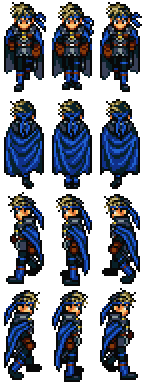
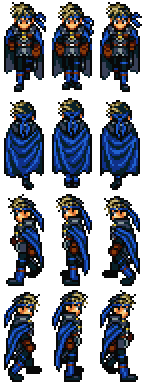
Multiple Mobs, animations

Changed region(s): [[0.0278, 0.25, 0.3056, 1.0], [0.6944, 0.25, 0.9722, 1.0], [0.3611, 0.25, 0.6389, 0.5]]

diff --git a/client/clientjs/Mob.js b/client/clientjs/Mob.js
@@ -3,25 +3,14 @@ class Mob {
 		options = options || {}
 		this.asset = options.asset
 
-		this.tileWidth = options.tileWidth || 48
-		this.tileHeight = options.tileHeight || 96
-
 		this.frames = {}
 
-		this.tile = [1,3]
-		this.offsetX = 128
-		this.offsetY = 128
+		this.tile = [0,0]
+		this.offsetX = 0
+		this.offsetY = 0
 
-		this.animations = {
-			'walknorth': [ [0,1],[1,1],[2,1],[1,1] ],
-			'walksouth': [ [0,0],[1,0],[2,0],[1,0] ],
-			'walkwest':  [ [0,2],[1,2],[2,2],[1,2] ],
-			'walkeast':  [ [0,3],[1,3],[2,3],[1,3] ],
-		}
-
-		this.currentAnimation = { name: 'walkeast', frame: 0, loop: true }
-
-		this.toRedraw = true
+		this.animations = {}
+		this.currentAnimation = options.currentAnimation || null
 	}
 
 	redraw() {
@@ -49,20 +38,19 @@ class Mob {
 	animate() {
 		var nextFrame = ()=>{
 			var anim = this.animations[this.currentAnimation.name]
-			if(anim[this.currentAnimation.frame]) {
-				this.tile = anim[this.currentAnimation.frame]	
-				this.currentAnimation.frame++
-			} else {
+			this.tile = anim[this.currentAnimation.frame]	
+			this.currentAnimation.frame++
+			if(!anim[this.currentAnimation.frame]) {
 				if (this.currentAnimation.loop) {
 					this.currentAnimation.frame = 0
-					this.tile = anim[this.currentAnimation.frame]
 				} else {
 					this.currentAnimation = null
 				}
 			}
+			this.offsetX = this.offsetX+10
 			this.redraw()
 
-			if(this.currentAnimation) setTimeout(nextFrame, 100)
+			if(this.currentAnimation) setTimeout(nextFrame, this.currentAnimation.delay)
 		}
 
 		nextFrame()

diff --git a/client/clientjs/GameEngine.js b/client/clientjs/GameEngine.js
@@ -101,8 +101,8 @@ class GameEngine {
 		return this.audio[name]
 	}
 
-	addMob(name, asset, options) {
-		this.mobDefs[name] = {name: name, asset: asset}
+	addMob(name, asset, klass = Mob, options = {}) {
+		this.mobDefs[name] = {name: name, asset: asset, klass: klass, options: options }
 	}
 
 
@@ -121,6 +121,8 @@ class GameEngine {
 	tick() {
 		var context = this.element.getContext('2d')
 
+		this.redraw()
+
 		if(this.clear) {
 			context.fillStyle = 'black'
 			context.fillRect(0, 0, this.element.width, this.element.height)
@@ -134,10 +136,9 @@ class GameEngine {
 		context.translate(this.x, this.y)
 
 		// Mobs
-		var flik = this.getMob('flik')
-		if(flik) {
-			flik.draw(context)
-		} 
+		for(var i in this.mobs) {
+			this.mobs[i].draw(context)
+		}
 
 		// Draw Background
 		context.restore()
@@ -174,7 +175,8 @@ class GameEngine {
 		console.debug('loading mobs')
 		this.mobs = {}
 		for(var i in this.mobDefs) {
-			this.mobs[i] = new this.Mob({ name: i, asset: this.getAsset(this.mobDefs[i].asset) })
+			var opts = Object.assign({ name: i, asset: this.getAsset(this.mobDefs[i].asset) }, this.mobDefs[i].options || {})
+			this.mobs[i] = new this.mobDefs[i].klass(opts)
 		}
 
 		callback()

diff --git a/client/clientjs/Remake.js b/client/clientjs/Remake.js
@@ -1,4 +1,5 @@
 const GameEngine = require('GameEngine')
+const Character = require('Character')
 
 class Remake extends GameEngine {
 	constructor(options) {
@@ -11,10 +12,12 @@ class Remake extends GameEngine {
 		this.addAsset('kobold.outer','/assets/KoboldVillageOuter.png')
 
 		this.addAsset('flikWalk','/mobs/FlikWalk.png')
+		this.addAsset('victorWalk','/mobs/VictorWalk.png')
 
 		this.addAudio('adventure','/audio/115adventurousjourney.mp3','audio/mpeg')
 
-		this.addMob('flik', 'flikWalk')
+		this.addMob('flik', 'flikWalk', Character, { offsetX: 128, offsetY: 128, currentAnimation: { name: 'walkeast', frame: 0, loop: true, delay: 120 } })
+		this.addMob('victor', 'victorWalk', Character, { offsetX: 512, offsetY: 128, currentAnimation: { name: 'walkwest', frame: 0, loop: true, delay: 120 } })
 	}
 
 	mousedown() {
@@ -29,6 +32,7 @@ class Remake extends GameEngine {
 
 	run() {
 		this.getMob('flik').animate()
+		this.getMob('victor').animate()
 	}
 }
 

diff --git a/client/clientjs/Character.js b/client/clientjs/Character.js
@@ -1,0 +1,24 @@
+const Mob = require('Mob')
+
+class Character extends Mob {
+	constructor(options = {}) {
+		options = options || {}
+		super(options)
+
+		this.tileWidth = options.tileWidth || 48
+		this.tileHeight = options.tileHeight || 96
+
+		this.tile = options.tile || [1,3]
+		this.offsetX = options.offsetX || 128
+		this.offsetY = options.offsetY || 128
+
+		this.animations = {
+			'walknorth': [ [0,1],[1,1],[2,1],[1,1] ],
+			'walksouth': [ [0,0],[1,0],[2,0],[1,0] ],
+			'walkwest':  [ [2,2],[1,2],[0,2],[1,2] ],
+			'walkeast':  [ [2,3],[1,3],[0,3],[1,3] ],
+		}
+	}
+}
+
+module.exports = Character
